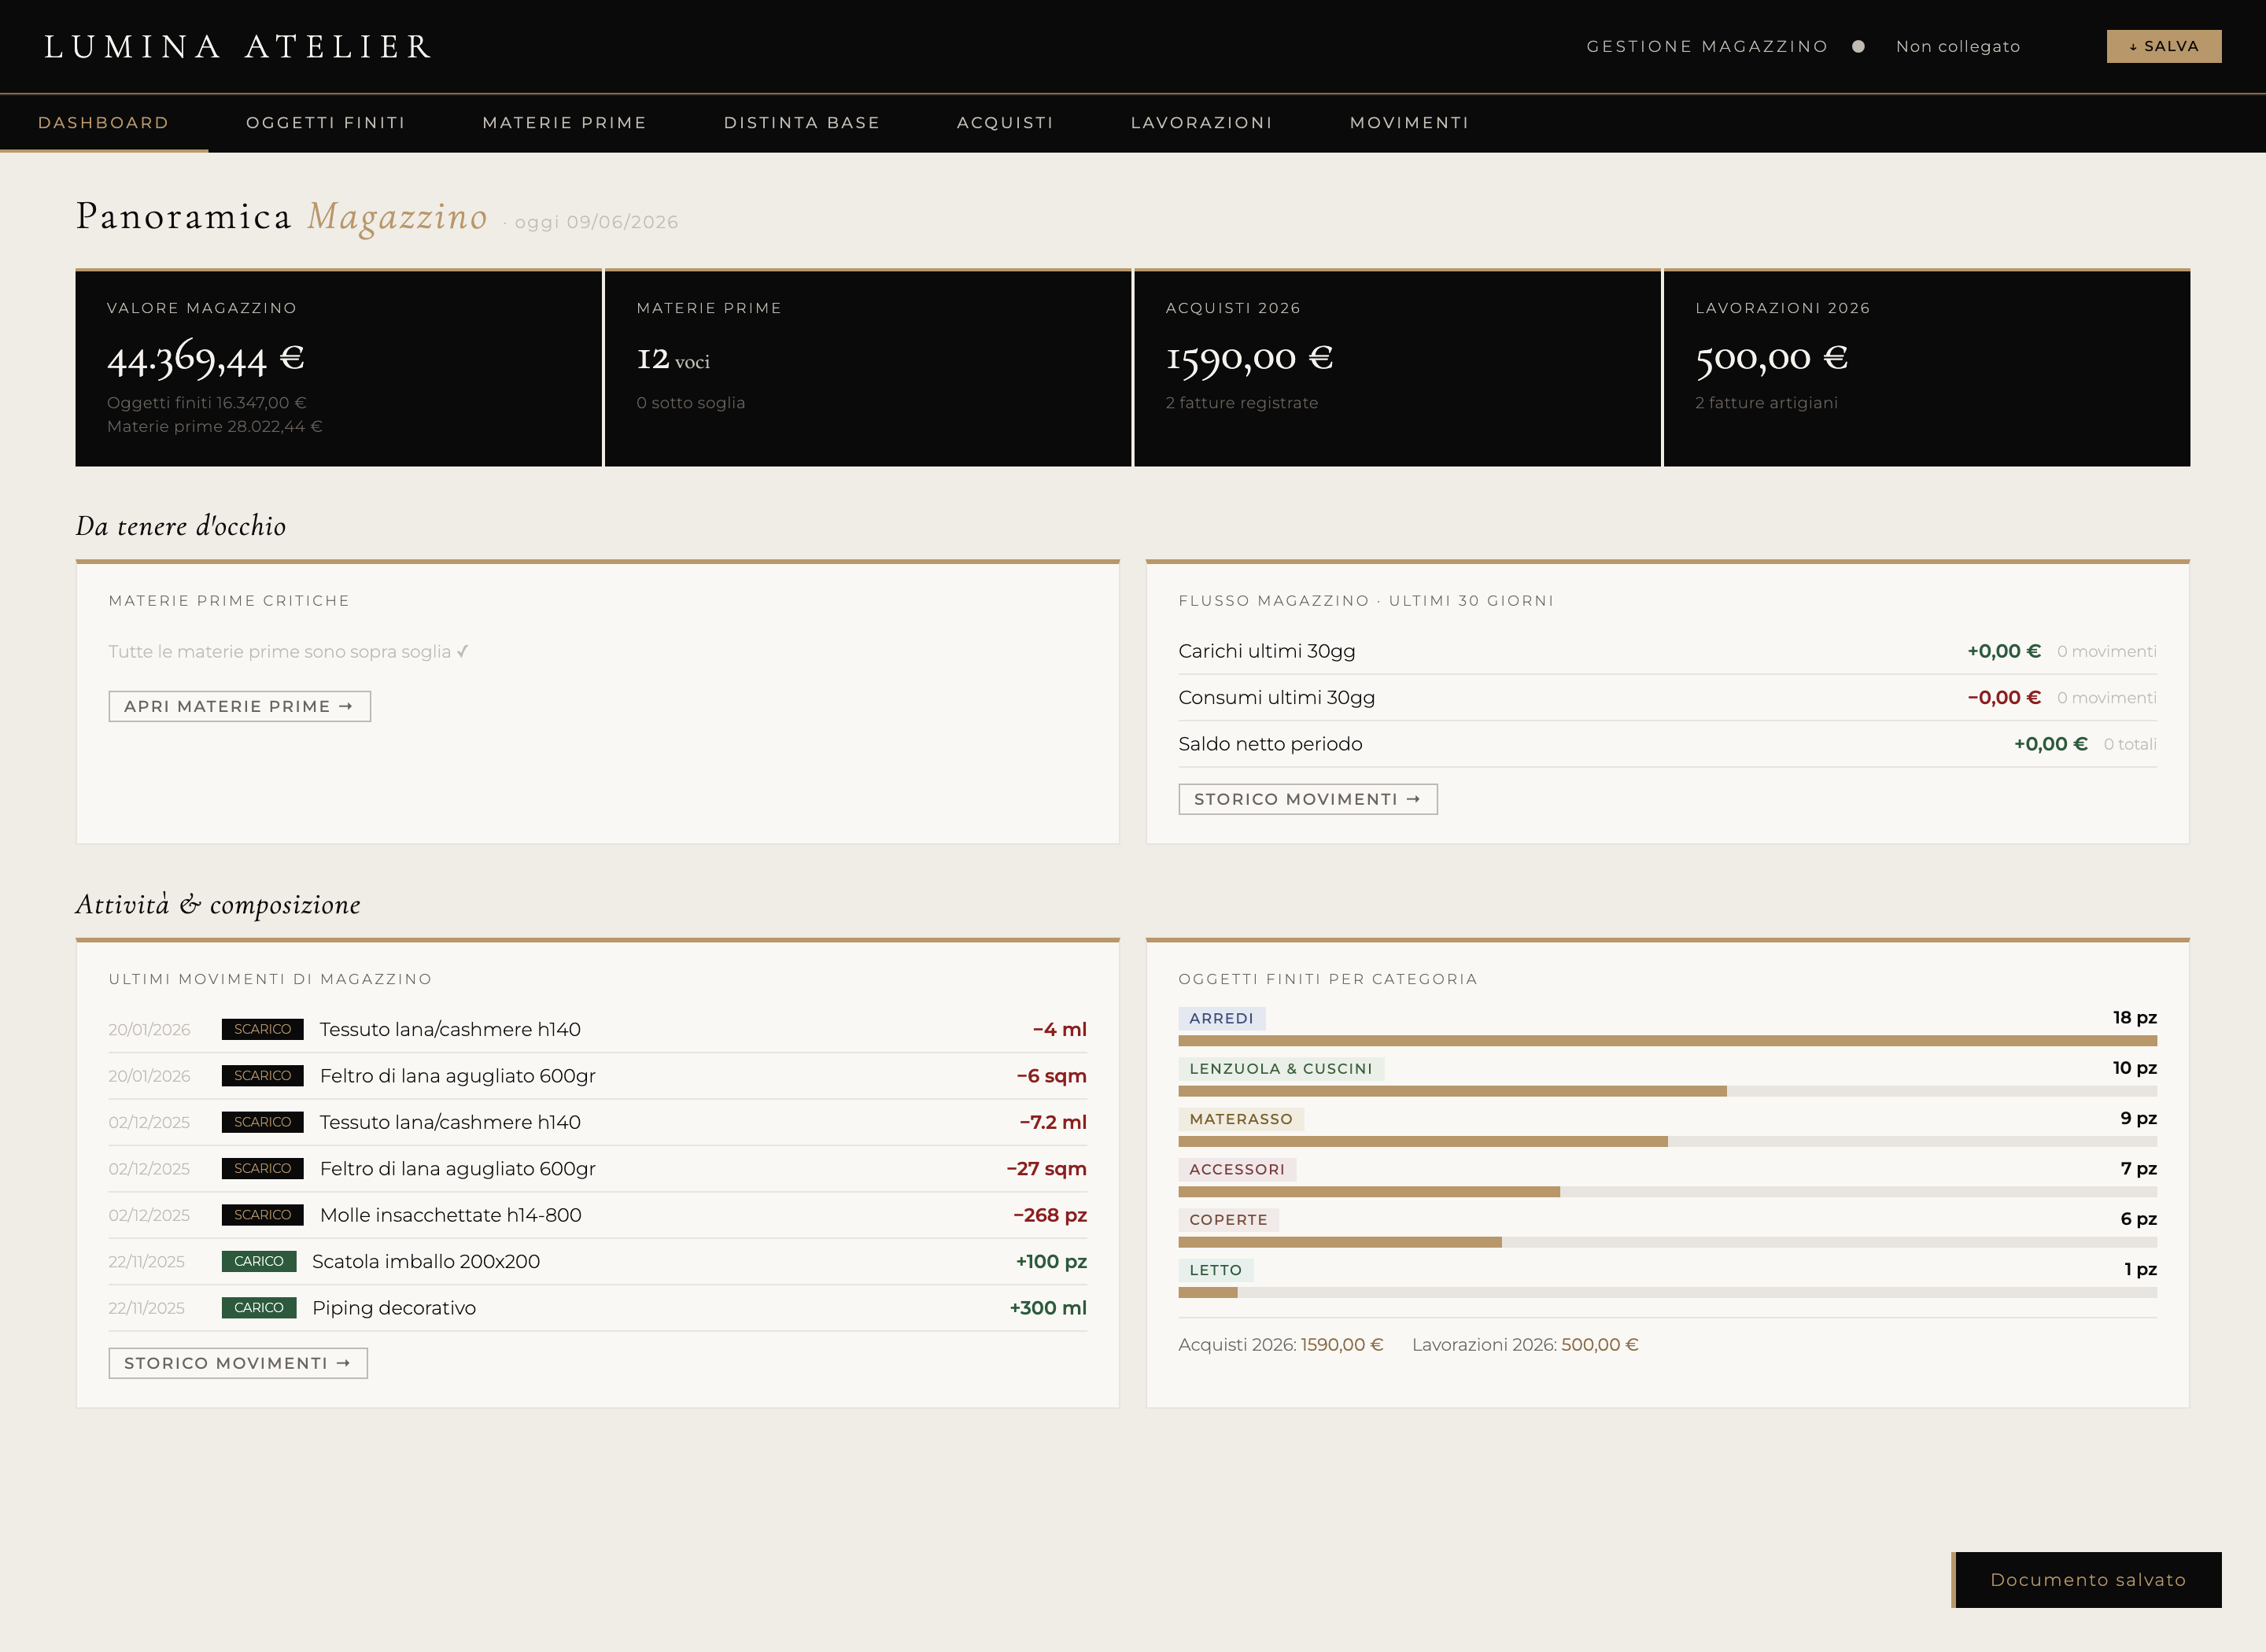
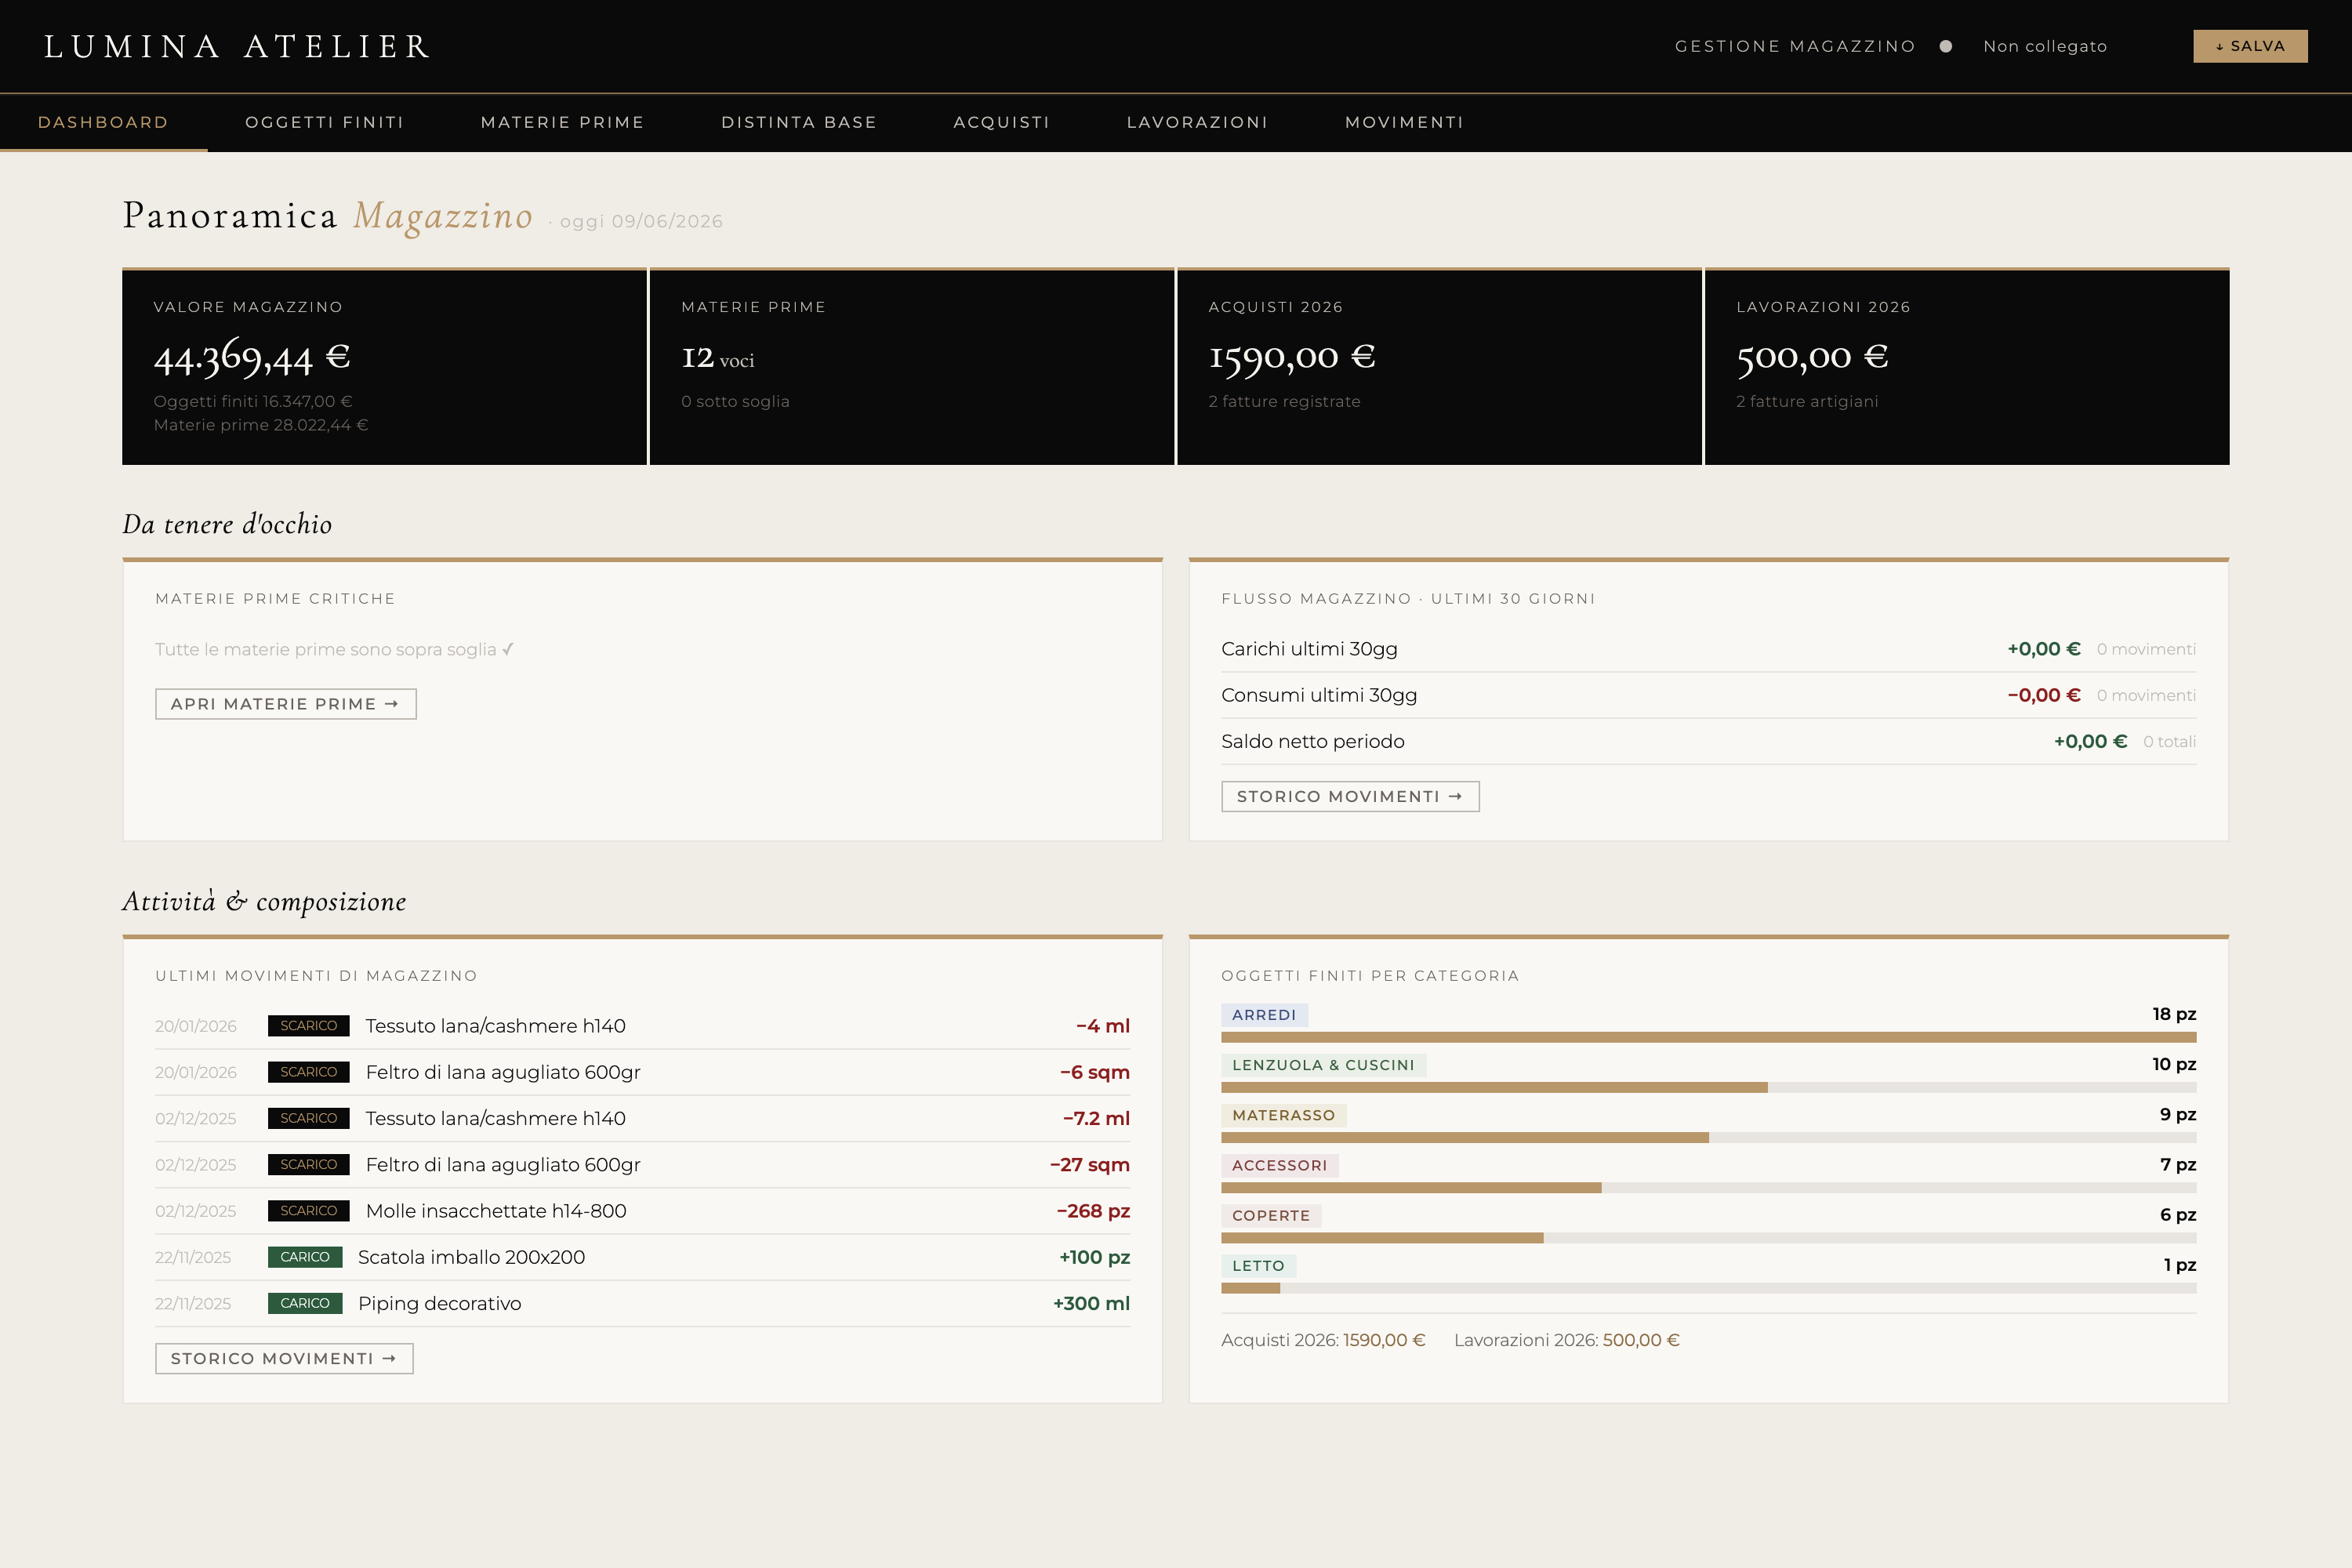
Add files via upload

diff --git a/preventivi.html b/preventivi.html
@@ -282,20 +282,7 @@ input:focus,select:focus,textarea:focus{
 
 <!-- ═══ HEADER ═══ -->
 <header>
-  <svg height="46" viewBox="0 0 380 110" xmlns="http://www.w3.org/2000/svg">
-    <circle cx="182" cy="16" r="6" fill="#0a0a0a"></circle>
-    <circle cx="162" cy="34" r="6" fill="#0a0a0a"></circle>
-    <circle cx="162" cy="34" r="6" fill="#999" clip-path="url(#c1)"></circle>
-    <clipPath id="c1"><rect x="162" y="28" width="6" height="12"></rect></clipPath>
-    <circle cx="202" cy="34" r="6" fill="#0a0a0a"></circle>
-    <circle cx="202" cy="34" r="6" fill="#999" clip-path="url(#c2)"></circle>
-    <clipPath id="c2"><rect x="202" y="28" width="6" height="12"></rect></clipPath>
-    <circle cx="182" cy="52" r="6" fill="#0a0a0a"></circle>
-    <circle cx="182" cy="52" r="6" fill="#999" clip-path="url(#c3)"></circle>
-    <clipPath id="c3"><rect x="182" y="46" width="6" height="12"></rect></clipPath>
-    <text x="20" y="92" font-family="Montserrat,sans-serif" font-weight="800" font-size="40" fill="#0a0a0a" letter-spacing="5">LUMINA ATELIER</text>
-    <text x="128" y="108" font-family="Montserrat,sans-serif" font-weight="300" font-size="13" fill="#0a0a0a" letter-spacing="9">MILANO</text>
-  </svg>
+  <div style="font-family:'Montserrat','Helvetica Neue',Helvetica,Arial,sans-serif;font-weight:800;font-size:20px;letter-spacing:.22em;color:#0a0a0a;white-space:nowrap">LUMINA ATELIER</div>
   <div style="display:flex;align-items:center;gap:12px">
     <span class="htitle">Preventivi</span>
     <span id="save-dot" class="sdot saving"></span>
@@ -2629,7 +2616,6 @@ function _renderLuminaAtelierPDF(opts){
     +'<table width="100%" style="margin-bottom:20px"><tr>'
     +'<td width="60%">'
     +'<div style="font-family:\'Montserrat\',Helvetica,sans-serif;font-weight:800;font-size:22pt;letter-spacing:3px">LUMINA ATELIER</div>'
-    +'<div style="font-family:\'Montserrat\',Helvetica,sans-serif;font-weight:300;font-size:8pt;letter-spacing:8px;margin-top:3px">MILANO</div>'
     +'</td>'
     +'<td width="40%" style="text-align:right;vertical-align:top">'
     +'<div style="font-weight:700;font-size:14pt;letter-spacing:2px">'+docTitle+'</div>'
@@ -3075,7 +3061,7 @@ function _impParseLuminaAtelierPDF(text){
   text.split('\n').forEach(function(L){
     L=L.trim();
     if(!L) return;
-    if(/^(LUMINA ATELIER|MILANO|N[°.]|DESCRIZIONE|DESCRIPTION|CLIENTE|CLIENT|Totale|Total|Subtotale|Subtotal|Sconto|Discount|IVA|VAT|NOTE|NOTES|Lumina Atelier|Banca|Prezzi)/i.test(L)) return;
+    if(/^(LUMINA ATELIER|N[°.]|DESCRIZIONE|DESCRIPTION|CLIENTE|CLIENT|Totale|Total|Subtotale|Subtotal|Sconto|Discount|IVA|VAT|NOTE|NOTES|Lumina Atelier|Banca|Prezzi)/i.test(L)) return;
     var lm=L.match(lineRe);
     if(lm){
       var desc=lm[1].trim();